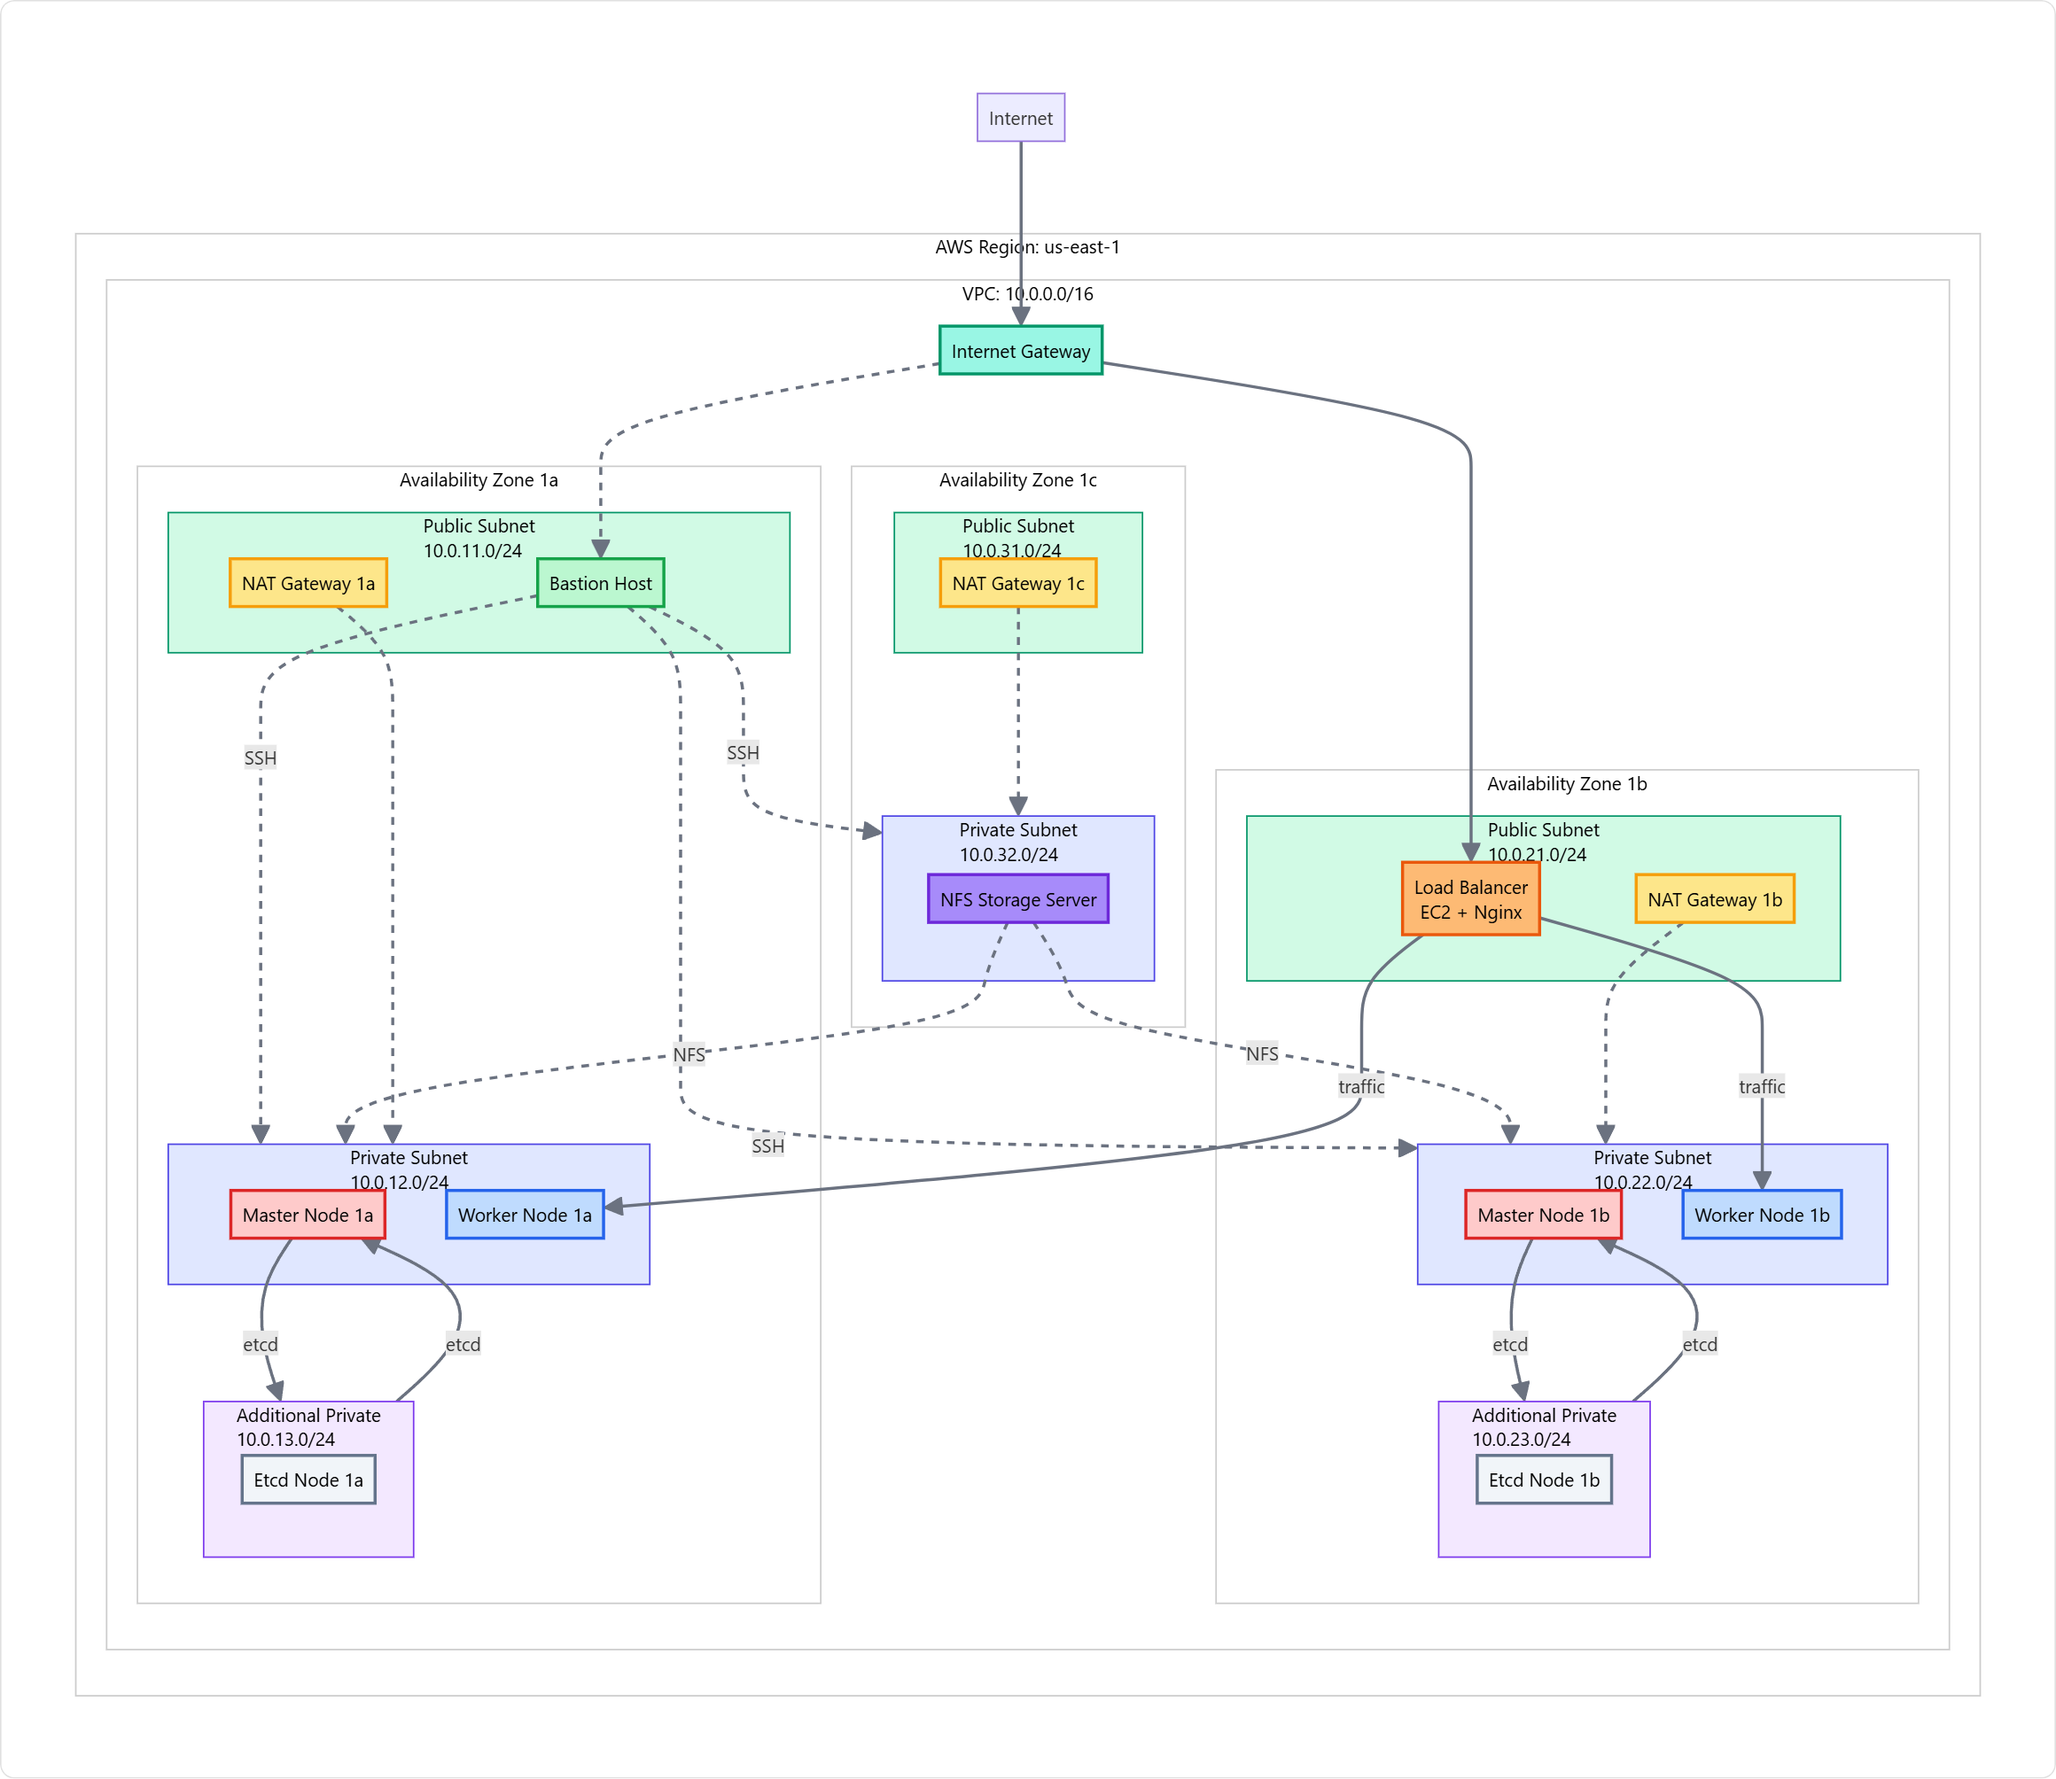
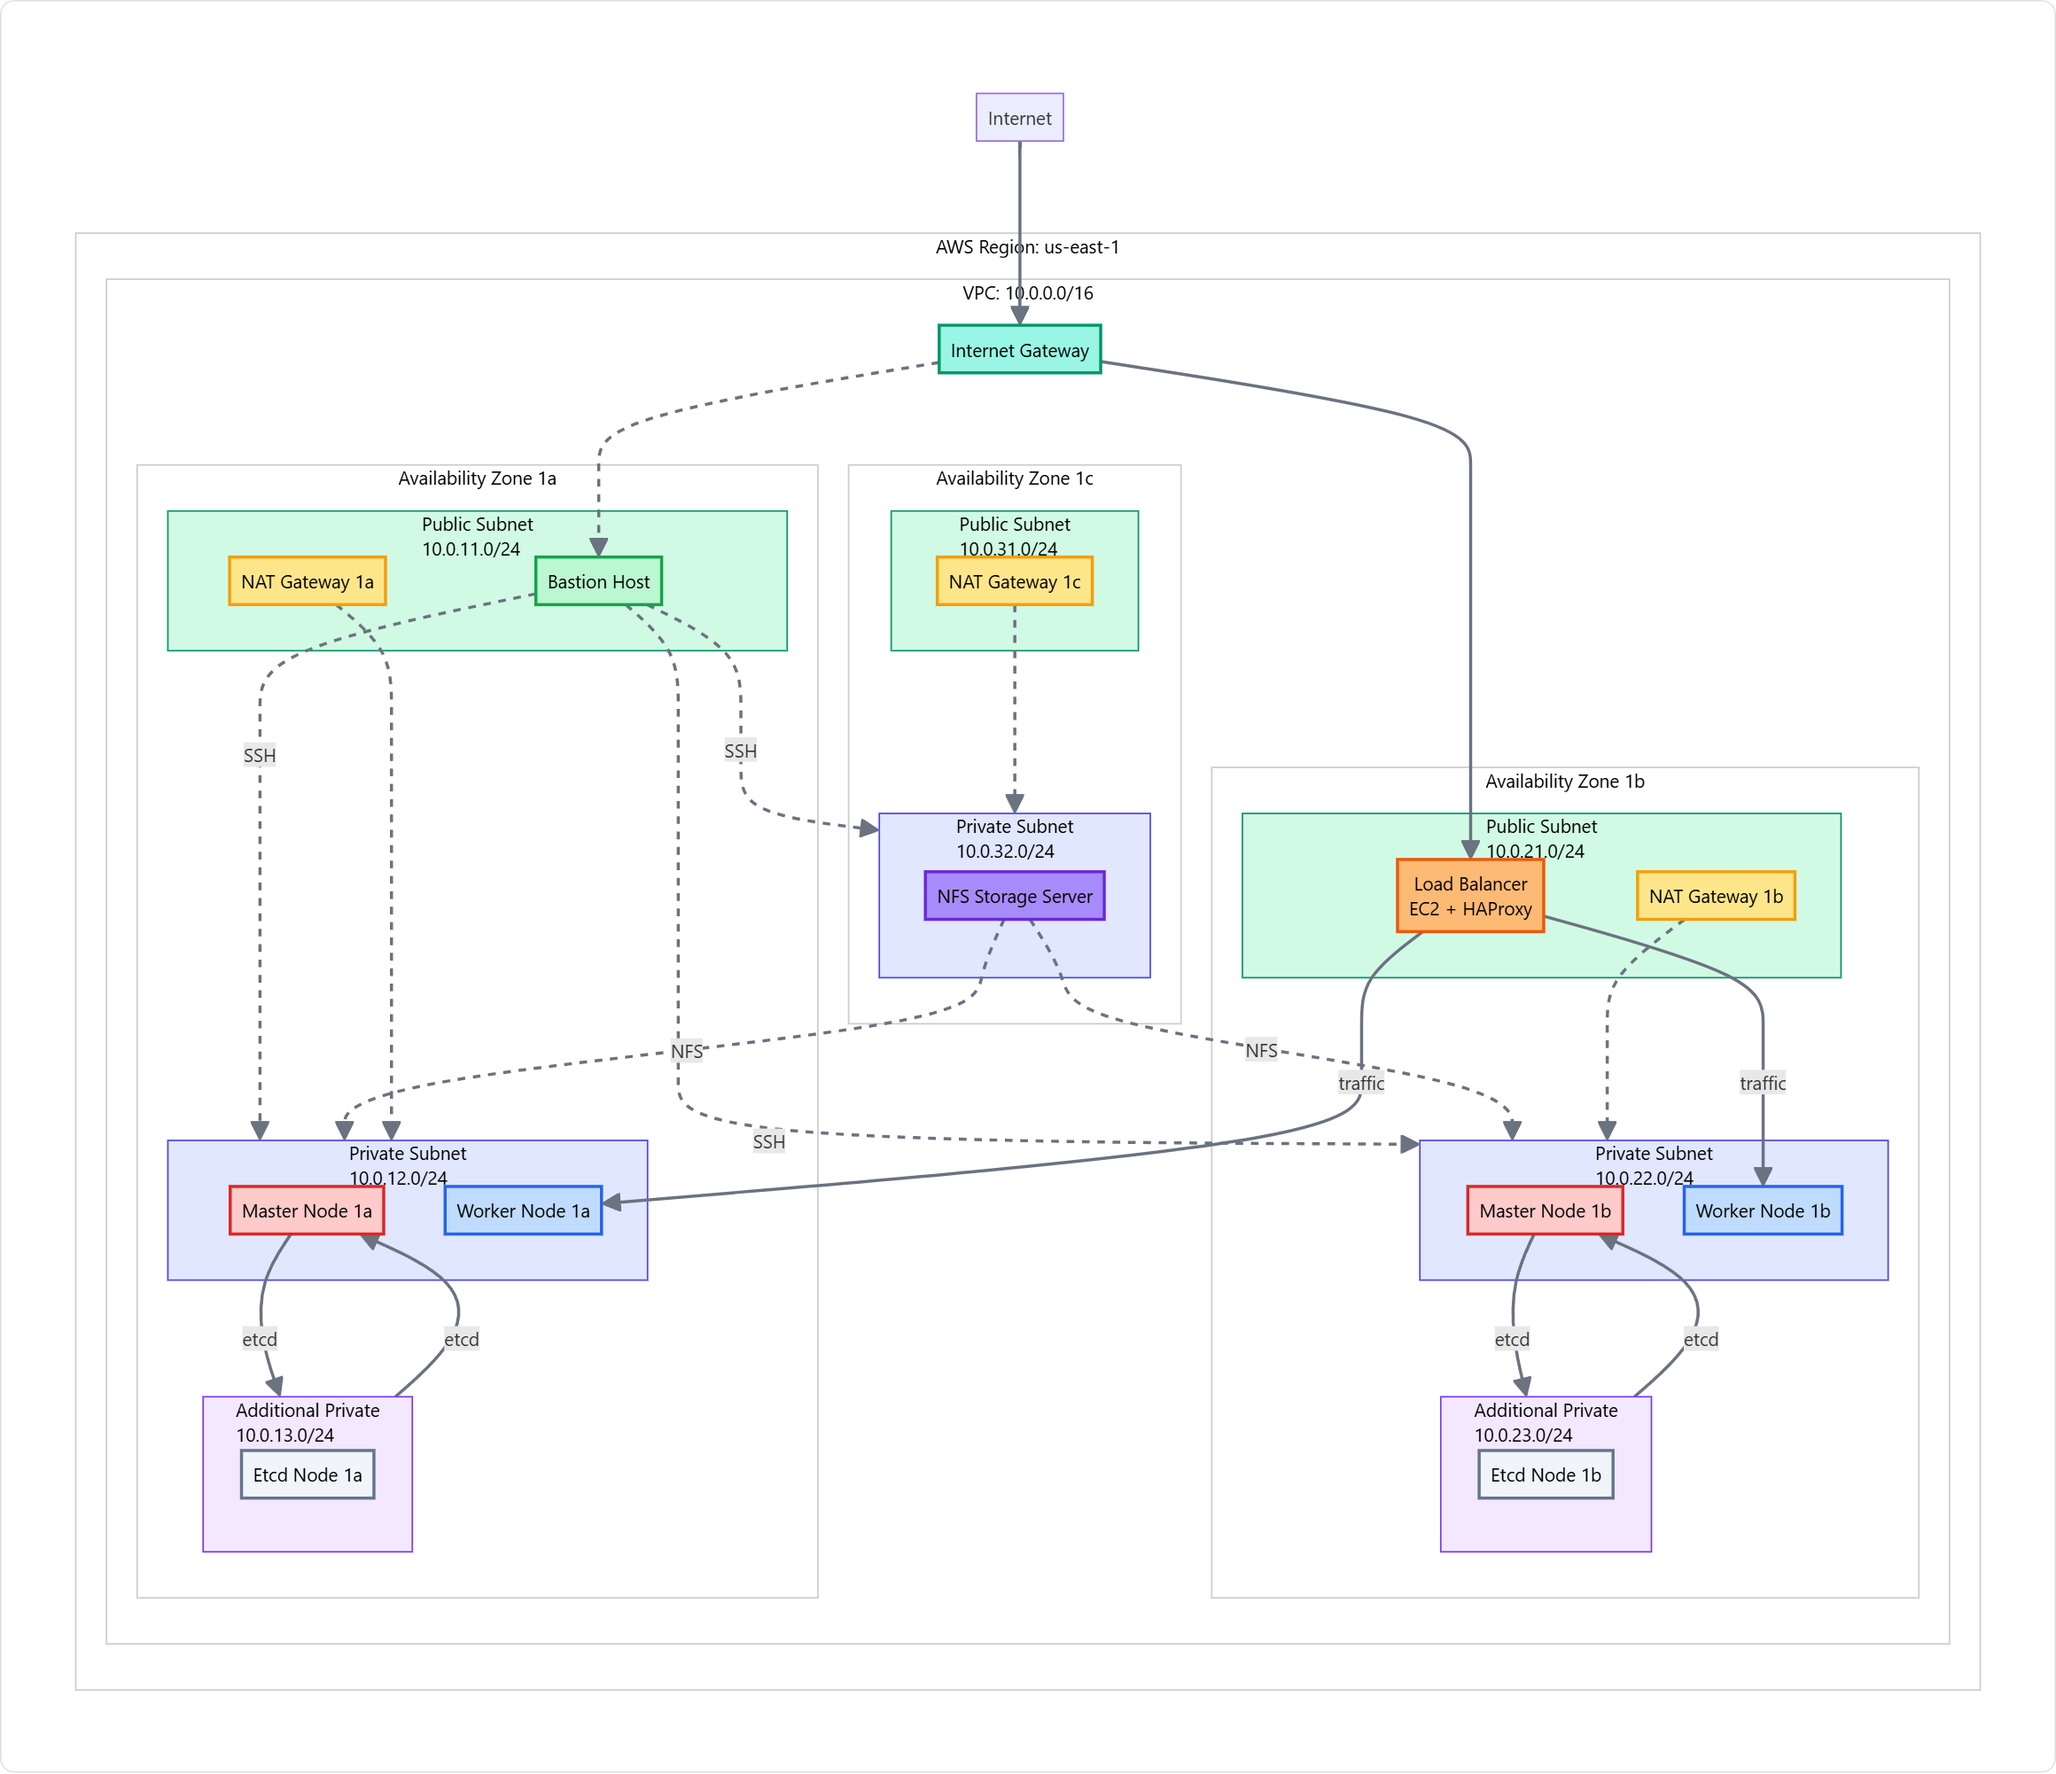
fix: Update Load Balancer label in architecture diagram to reflect HAProxy usage

diff --git a/infra_with_nfs.html b/infra_with_nfs.html
@@ -227,7 +227,7 @@ flowchart TB
             
             subgraph AZ_1B["Availability Zone 1b"]
                 subgraph Public_1B["Public Subnet<br>10.0.21.0/24"]
-                    LoadBalancer["Load Balancer<br>EC2 + Nginx"]
+                    LoadBalancer["Load Balancer<br>EC2 + HAProxy"]
                     NAT_1B["NAT Gateway 1b"]
                 end
                 
